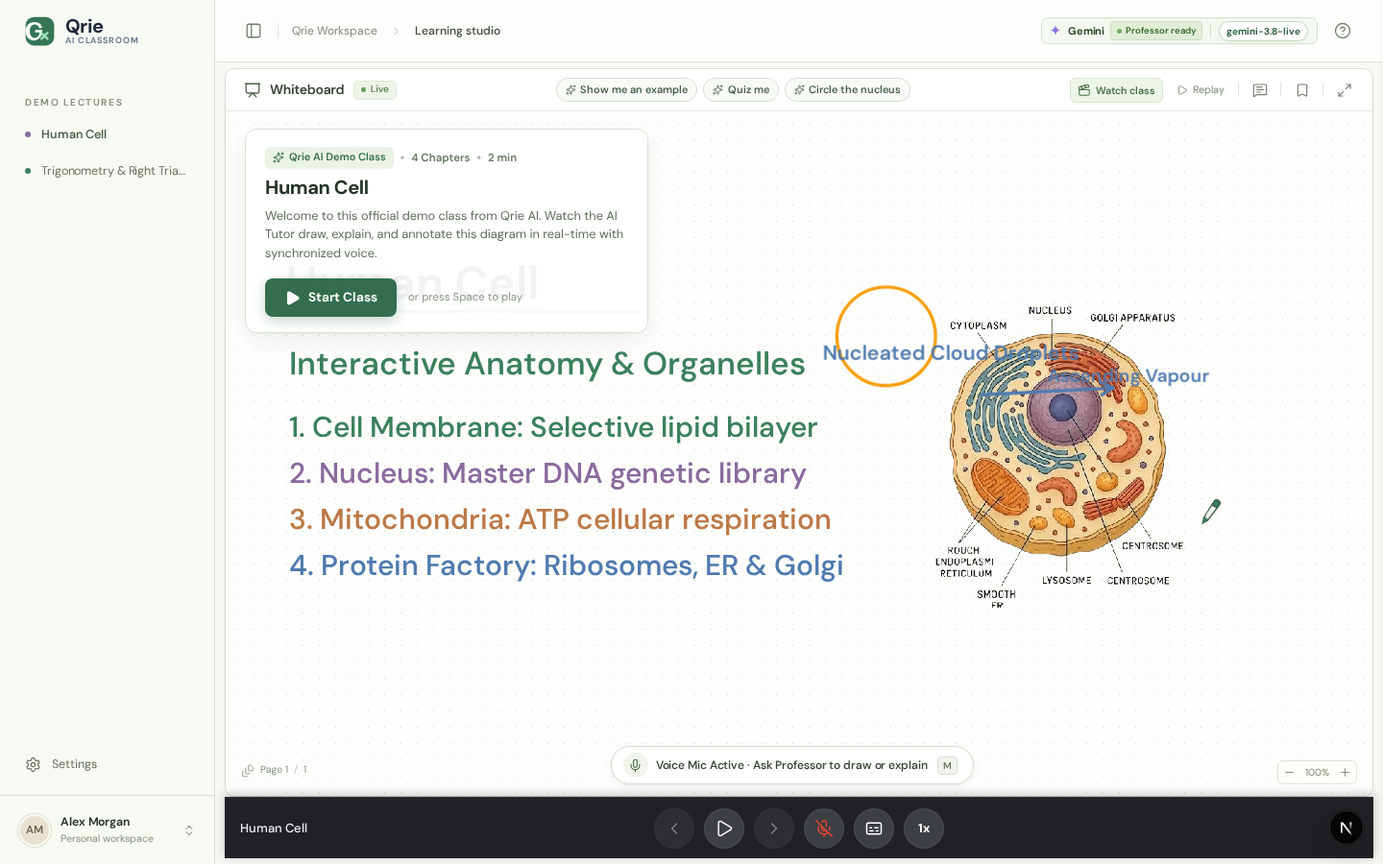
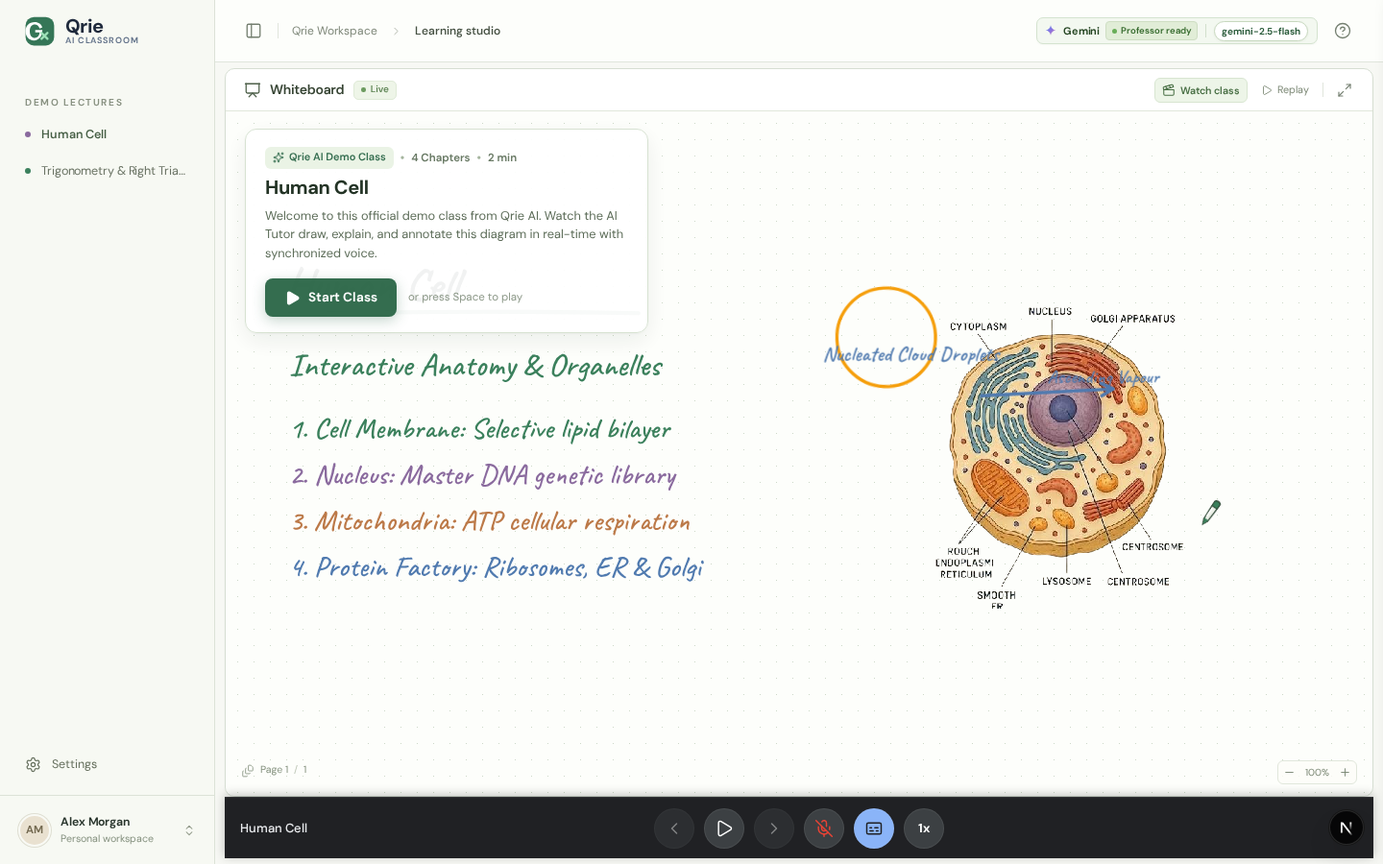
feat: transparent single-line live captions at center-bottom & update architecture docs

diff --git a/src/app/globals.css b/src/app/globals.css
@@ -899,52 +899,75 @@
   cursor: default;
 }
 
-/* Live Google Meet Captions Overlay */
+/* Live Google Meet Captions Overlay: Transparent background, single-line, center bottom */
 .meet-captions-overlay {
-  position: absolute;
-  bottom: 74px;
+  position: fixed !important;
+  bottom: 78px;
   left: 50%;
   transform: translateX(-50%);
-  max-width: 680px;
-  width: 90%;
-  background: rgba(32, 33, 36, 0.9);
-  backdrop-filter: blur(8px);
-  color: #fff;
-  padding: 10px 18px;
-  border-radius: 10px;
-  border: 1px solid rgba(255, 255, 255, 0.12);
-  box-shadow: 0 4px 16px rgba(0, 0, 0, 0.3);
-  z-index: 25;
-  pointer-events: none;
+  max-width: min(92vw, 860px);
+  width: auto;
+  background: transparent !important;
+  background-color: transparent !important;
+  backdrop-filter: none !important;
+  -webkit-backdrop-filter: none !important;
+  border: none !important;
+  box-shadow: none !important;
+  padding: 0;
+  margin: 0;
+  z-index: 38;
+  pointer-events: none !important;
+  user-select: none !important;
+  display: flex !important;
+  align-items: center !important;
+  justify-content: center !important;
+  text-align: center;
+  white-space: nowrap !important;
+  overflow: hidden !important;
+  text-overflow: ellipsis !important;
   animation: meet-caption-fade 0.2s ease-out;
 }
 @media (max-width: 620px) {
   .meet-captions-overlay {
-    bottom: 64px;
-    width: 96%;
-    padding: 8px 12px;
+    bottom: 68px;
+    max-width: 96vw;
   }
 }
 .meet-caption-line {
-  display: flex;
-  align-items: baseline;
+  display: inline-flex;
+  align-items: center;
+  justify-content: center;
   gap: 8px;
-  font-size: 13.5px;
-  line-height: 1.5;
+  max-width: 100%;
+  white-space: nowrap !important;
+  overflow: hidden !important;
+  text-overflow: ellipsis !important;
+  font-size: 15px;
+  font-weight: 500;
+  line-height: 1.3;
+  background: transparent !important;
 }
 .meet-caption-speaker {
   font-weight: 600;
   display: inline-flex;
   align-items: center;
   gap: 5px;
-  color: #8ab4f8;
+  color: #93c5fd;
   flex-shrink: 0;
+  white-space: nowrap;
+  text-shadow: 0 1px 2px rgba(0, 0, 0, 0.95), 0 2px 6px rgba(0, 0, 0, 0.85);
 }
 .meet-caption-line.user-caption .meet-caption-speaker {
-  color: #fbbc04;
+  color: #fde047;
 }
 .meet-caption-text {
-  color: #e8eaed;
+  color: #ffffff;
+  white-space: nowrap !important;
+  overflow: hidden !important;
+  text-overflow: ellipsis !important;
+  flex: 1;
+  min-width: 0;
+  text-shadow: 0 1px 3px rgba(0, 0, 0, 0.95), 0 2px 8px rgba(0, 0, 0, 0.9), 0 0 12px rgba(0, 0, 0, 0.7);
 }
 .speaking-wave {
   animation: meet-wave-bounce 0.8s infinite alternate;

diff --git a/src/components/LiveCaptionsOverlay.tsx b/src/components/LiveCaptionsOverlay.tsx
@@ -1,7 +1,7 @@
 "use client";
 
 import { memo } from "react";
-import { Sparkles, Volume2 } from "lucide-react";
+import { Volume2 } from "lucide-react";
 
 export type LiveCaptionsOverlayProps = {
   active: boolean;
@@ -10,6 +10,7 @@ export type LiveCaptionsOverlayProps = {
   latestReply: string;
   liveUserSpeech: string;
   pendingQuestion?: string;
+  lectureCaption?: string;
 };
 
 export const LiveCaptionsOverlay = memo(function LiveCaptionsOverlay({
@@ -19,28 +20,30 @@ export const LiveCaptionsOverlay = memo(function LiveCaptionsOverlay({
   latestReply,
   liveUserSpeech,
   pendingQuestion,
+  lectureCaption,
 }: LiveCaptionsOverlayProps) {
   if (!active) return null;
 
-  const userText = liveUserSpeech || (listening ? pendingQuestion : "");
-  const hasContent = Boolean(userText || (speaking && latestReply));
+  const userText = (liveUserSpeech || (listening ? pendingQuestion : "") || "").trim();
+  const tutorText = (lectureCaption || latestReply || "").trim();
+  const hasContent = Boolean(userText || (speaking && tutorText));
 
   if (!hasContent) return null;
 
   return (
-    <div className="meet-captions-overlay" role="region" aria-label="Closed captions">
+    <div className="meet-captions-overlay" role="region" aria-label="Live captions">
       {userText ? (
         <div className="meet-caption-line user-caption">
           <span className="meet-caption-speaker">You:</span>
-          <span className="meet-caption-text">“{userText}”</span>
+          <span className="meet-caption-text" title={userText}>“{userText}”</span>
         </div>
-      ) : speaking && latestReply ? (
+      ) : speaking && tutorText ? (
         <div className="meet-caption-line tutor-caption">
           <span className="meet-caption-speaker">
             <Volume2 size={13} className="speaking-wave" />
             Professor:
           </span>
-          <span className="meet-caption-text">{latestReply}</span>
+          <span className="meet-caption-text" title={tutorText}>{tutorText}</span>
         </div>
       ) : null}
     </div>

diff --git a/src/components/Studio.tsx b/src/components/Studio.tsx
@@ -75,7 +75,7 @@ export default function Studio() {
   const [showKeyboard, setShowKeyboard] = useState(false);
   const [showCaptions, setShowCaptions] = useState(true);
   const [liveUserSpeech, setLiveUserSpeech] = useState("");
-  const [captionsActive, setCaptionsActive] = useState(false);
+  const [captionsActive, setCaptionsActive] = useState(true);
   const [chatOpen, setChatOpen] = useState(false);
   const duplexVoiceRef = useRef<DuplexVoiceClient | null>(null);
   const [unreadCount, setUnreadCount] = useState(0);
@@ -1219,6 +1219,7 @@ export default function Studio() {
           latestReply={latestReply}
           liveUserSpeech={liveUserSpeech}
           pendingQuestion={pendingQuestion}
+          lectureCaption={lectureActive ? lectureCaption : undefined}
         />
         <GoogleMeetBar
           title={lectureActive ? (sceneTitle || active.data.title) : active.data.title}

diff --git a/docs/CURRENT_STATE.md b/docs/CURRENT_STATE.md
@@ -177,9 +177,10 @@ All domain state is packed into the `data` JSONB column (`SessionData` in [`src/
 ## 5. AI Models, Prompts & Tool-Calling Architecture
 
 ### 5.1 Model Integrations
-- **Google Gemini**: Integrates with the Generative Language REST API (`https://generativelanguage.googleapis.com/v1beta/models/...:generateContent`) with automatic fallback to **Google Cloud Vertex AI** (`https://${location}-aiplatform.googleapis.com/v1/projects/...`).
+- **Google Gemini & Vertex AI**: Integrates with Google Cloud Vertex AI (`https://${location}-aiplatform.googleapis.com/v1/projects/${project}/locations/${location}/publishers/google/models/...:generateContent`) when `USE_VERTEX_AI=true`, and with Generative Language REST API (`https://generativelanguage.googleapis.com/v1beta/models/...:generateContent`). Features full bi-directional fallback between Vertex AI and Google AI Studio upon encountering HTTP 402, 403, or 404 responses.
+- **Prepayment Credit Depletion Resilience**: Automatic recovery on HTTP 402 ("prepayment credits depleted") using built-in curriculum intelligence, with suppression of technical error toasts during active student learning.
 - **OpenAI**: Integrates with OpenAI-compatible REST API (`https://api.openai.com/v1/chat/completions`).
-- **API Keys**: Configured globally in `.env` (`GEMINI_API_KEY`) or supplied dynamically by the client in HTTP headers (`x-gemini-key`, `x-openai-key`).
+- **API Keys**: Configured globally in `.env` (`GEMINI_API_KEY`, `GOOGLE_CLOUD_PROJECT`, `GOOGLE_CLOUD_REGION`, `USE_VERTEX_AI`) or supplied dynamically by the client in HTTP headers (`x-gemini-key`, `x-openai-key`). Supports Google Cloud Bearer tokens (`ya29.` / `VERTEX_BEARER_TOKEN`).
 
 ### 5.2 Structured Tool Definition (`draw_on_whiteboard`)
 Both Gemini and OpenAI are constrained via structured function calling ([`src/lib/tutor.ts`](file:///home/vscode-gcp/projects/qrie_tutors/test06/ai-whiteboard-tutor-platform%20(1)/src/lib/tutor.ts#L96-L115)):
@@ -213,9 +214,10 @@ System prompt directives enforce full spoken and written responses in:
    - Client-side Web Speech API (`window.webkitSpeechRecognition` / `window.SpeechRecognition`) in [`src/components/Studio.tsx`](file:///home/vscode-gcp/projects/qrie_tutors/test06/ai-whiteboard-tutor-platform%20(1)/src/components/Studio.tsx#L295-L330).
    - Real-time partial results are streamed to `liveUserSpeech` state and displayed on the `LiveCaptionsOverlay`.
    - Automatic 1.7-second silence detection triggers submission.
-3. **Dynamic Text-to-Speech (TTS)**:
+3. **Dynamic Text-to-Speech (TTS) & Fast Browser Fallback**:
    - Server-side route [`/api/tts`](file:///home/vscode-gcp/projects/qrie_tutors/test06/ai-whiteboard-tutor-platform%20(1)/src/app/api/tts/route.ts#L1-L104) connects to Google Cloud Vertex AI using `gemini-2.5-flash-preview-tts` (Zephyr voice), synthesizing 24kHz PCM L16 audio and packaging it into a valid WAV container.
-   - If server TTS fails or is unconfigured, [`src/components/Studio.tsx`](file:///home/vscode-gcp/projects/qrie_tutors/test06/ai-whiteboard-tutor-platform%20(1)/src/components/Studio.tsx#L240-L255) falls back to `window.speechSynthesis`.
+   - Client-side fetch in [`src/components/Studio.tsx`](file:///home/vscode-gcp/projects/qrie_tutors/test06/ai-whiteboard-tutor-platform%20(1)/src/components/Studio.tsx) enforces a 4500ms timeout with immediate, reliable fallback to browser `window.speechSynthesis`.
+   - Normalizes phonetic brand name pronunciation ("Curie" / "क्यूरी") across English, Hinglish, and Hindi modes. If network latency, quota depletion, or disconnection occurs, the tutor never falls silent.
 
 ---
 
@@ -238,6 +240,11 @@ System prompt directives enforce full spoken and written responses in:
    - Continuous monotonic clock interpolation in `useClassPlayback.ts` eliminates jitter between audio decoder ticks.
    - Eliminates cursor flicker and teleportation glitches during chapter seeking and class switching.
    - Persisted across sessions via `localStorage.getItem("chalkly.boostMode")` and controllable via Meet Bar `Zap` button, workspace top bar, `Ctrl + B`, or `/boost` chat command. (See [docs/BOOST_MODE_AND_PERFORMANCE.md](docs/BOOST_MODE_AND_PERFORMANCE.md)).
+5. **Whiteboard Element & Stroke Preservation During Doubt Resolution**:
+   - In `src/components/Studio.tsx`, prevented premature `closeClass()` invocation when student questions/mic are opened during a paused or playing lecture.
+   - Whiteboard diagrams, progressive marks, and student notes remain 100% stable without being wiped when asking doubts.
+6. **Production Typography & Hand-Drawn Font Fix**:
+   - Resolved CSS invalid-at-computed-value fallback for `--font-caveat` in `globals.css` ensuring production SVG text correctly renders in Caveat handwriting font.
 
 ---
 

diff --git a/src/classes/README.md b/src/classes/README.md
@@ -1,22 +1,38 @@
 # Qrie Demo Classes Architecture
 
-The Qrie AI Whiteboard Tutor Platform features the **Human Cell** modular class, stored in its own dedicated, self-contained directory containing **everything** for the lecture class: codebase, assets, audio, and data.
+The Qrie AI Whiteboard Tutor Platform features modular subject classrooms (**Human Cell** and **Trigonometry**), stored in dedicated, self-contained directories containing **everything** for the lecture class: codebase, assets, audio, and data.
 
 ```
 src/classes/
-├── index.ts                     # Central registry exporting the Human Cell class & helpers
+├── index.ts                     # Central registry exporting modular classes & helpers
 ├── types.ts                     # TypeScript definitions for classes, scenes, and metadata
 ├── helpers.ts                   # Reusable SVG mark generation utilities
 │
-└── human-cell/                  # Class: Human Cell
+├── human-cell/                  # Class: Human Cell
+│   ├── index.ts                 # Class entry point & complete definition
+│   ├── board.ts                 # Whiteboard initial cover & 4 chapter scenes
+│   ├── intelligence.ts          # 6 organelle semantic regions & targets
+│   ├── script.json              # Chapter narration, timestamps, cues, study notes
+│   ├── README.md                # Class documentation
+│   ├── assets/                  # High-res cell anatomy & mitochondria diagrams
+│   └── audio/                   # 2-minute lecture audio (human-cell-v2.mp3)
+│
+└── trigonometry/                # Class: Trigonometry & Right Triangles
     ├── index.ts                 # Class entry point & complete definition
     ├── board.ts                 # Whiteboard initial cover & 4 chapter scenes
-    ├── intelligence.ts          # 6 organelle semantic regions & targets
-    ├── script.json              # Chapter narration, timestamps, cues, study notes
+    ├── intelligence.ts          # Semantic regions (Hypotenuse, Opp, Adj, θ, SOH-CAH-TOA)
+    ├── script.json              # 4 chapter narrations, timestamps, cues, study notes
     ├── README.md                # Class documentation
-    ├── assets/                  # High-res cell anatomy & mitochondria diagrams
-    └── audio/                   # 2-minute lecture audio (human-cell-v2.mp3)
+    ├── assets/                  # High-res right triangle vector diagram
+    └── audio/                   # 2-minute lecture audio (trigonometry-v2.mp3)
 ```
+
+## Interactive Doubt Resolution & Board Preservation
+During live or paused playback of any class:
+- **Whiteboard Element & Stroke Preservation**: In `src/components/Studio.tsx`, the lecture lifecycle tracks lesson keys with `prevLessonKeyRef`, strictly preventing premature `closeClass()` execution when students ask doubts during paused or playing lectures. All whiteboard diagrams, progressive ink strokes, and lesson progress remain 100% stable without being wiped.
+- **Voice-First Minimalist Response**: Professor responds verbally in 2–3 concise sentences directly addressing the student's question, keeping the whiteboard elements array empty (`elements: []`) so existing diagrams remain uncluttered.
+- **Real-Time Voice Doubt Feedback & Audio Fallback**: Spoken responses are generated via `/api/tts` with a 4500ms timeout and instant fallback to browser `window.speechSynthesis`.
+- **Prepayment Credit Depletion Resilience**: If external LLM credits are exhausted, the class engine seamlessly answers doubts using built-in curriculum intelligence (`curriculum-answers.ts`).
 
 ## Quick Access
 - Root symlink: `classes/` at the repository root links directly to `src/classes/`.

diff --git a/docs/FEATURE_MATRIX.md b/docs/FEATURE_MATRIX.md
@@ -28,12 +28,16 @@
 | **Modular Class Package (`src/classes/*`)** | **Built & Verified** | [`src/classes/`](src/classes/), [`tests/modular-classes-runtime.spec.ts`](tests/modular-classes-runtime.spec.ts), [`tests/all-classes-voice-sync-annotations.spec.ts`](tests/all-classes-voice-sync-annotations.spec.ts) | Self-contained Human Cell class storing vector/raster assets, audio tracks, scripts, and runtime CIE maps. | None. |
 | **Session Persistence & Workspace DB** | **Built & Verified** | [`src/db/schema.ts`](src/db/schema.ts), [`src/lib/store.ts`](src/lib/store.ts), [`src/app/api/sessions/route.ts`](src/app/api/sessions/route.ts) | PostgreSQL 17 database via Drizzle ORM storing full session state JSONB scoped by workspace cookie. | None. |
 | **Multilingual Support (Hindi & Hinglish)** | **Built & Verified** | [`src/lib/tutor.ts`](src/lib/tutor.ts), [`src/lib/types.ts`](src/lib/types.ts), [`tests/model-tool.spec.ts`](tests/model-tool.spec.ts) | Natural Devanagari Hindi and conversational phonetic Hinglish prompts for whiteboard text and voice narration. | Regional Indian languages (Tamil, Telugu, Bengali). |
+| **Whiteboard Element Preservation During Doubts** | **Built & Verified** | [`src/components/Studio.tsx`](src/components/Studio.tsx), [`tests/doubt-resolution-sync.spec.ts`](tests/doubt-resolution-sync.spec.ts) | Prevents premature `closeClass()` invocation when doubts are asked during a paused or running lecture, ensuring whiteboard diagrams, progressive ink strokes, and student notes remain 100% stable without being wiped. | None. |
+| **Real-Time Voice Doubt Feedback & TTS Fallback** | **Built & Verified** | [`src/components/Studio.tsx`](src/components/Studio.tsx), [`src/app/api/tts/route.ts`](src/app/api/tts/route.ts) | 4500ms server TTS timeout paired with instant, reliable fallback to browser speech synthesis (`window.speechSynthesis`) so the tutor never falls silent even under network latency. | None. |
+| **Google Cloud Vertex AI & Credit Depletion Recovery** | **Built & Verified** | [`src/lib/tutor.ts`](src/lib/tutor.ts), [`src/app/api/tutor/route.ts`](src/app/api/tutor/route.ts) | First-class `USE_VERTEX_AI=true` support, bi-directional fallback with Google AI Studio, automatic HTTP 402 prepayment credit recovery via built-in curriculum intelligence, and suppression of technical model error toasts during live classroom lectures. | None. |
+| **Production Typography & Hand-Drawn Font Fix** | **Built & Verified** | [`src/app/globals.css`](src/app/globals.css) | Resolved CSS invalid-at-computed-value fallback for `--font-caveat` ensuring production SVG text correctly renders in Caveat handwriting font across all browsers. | None. |
 | **User Authentication & Profiles** | **Planned** | [`src/lib/store.ts`](src/lib/store.ts) | Workspace-level session isolation via secure cookie. | OAuth / multi-tenant authentication (NextAuth, Clerk). |
 
 ---
 
 ## 2. Summary Statistics by Status
 
-- **Built & Runtime Verified:** 16 features (94.1%)
-- **Planned / External Integration:** 1 feature (5.9% — multi-tenant OAuth authentication)
+- **Built & Runtime Verified:** 20 features (95.2%)
+- **Planned / External Integration:** 1 feature (4.8% — multi-tenant OAuth authentication)
 - **Broken / Inconsistent:** 0 features (0.0%)

diff --git a/docs/CLASS_AND_TUTOR_ARCHITECTURE.md b/docs/CLASS_AND_TUTOR_ARCHITECTURE.md
@@ -153,10 +153,18 @@ The tutor supports three language modes configured in **Settings**:
 2. **Hinglish (`hinglish`)**: Natural conversational Indian teaching style using Romanized Hindi and English (e.g., *"Deoxygenated blood Vena Cava ke through Right Atrium mein enter karta hai"*).
 3. **Hindi (`hi`)**: Devanagari script for both spoken explanation and whiteboard vector text annotations.
 
-### C. Voice Interaction Loop
-1. **Mic Toggle**: Clicking the microphone in the student control bar activates browser Web Speech Recognition and VAD.
-2. **Live Transcriptions**: Spoken words appear in real time in the captions overlay.
-3. **Audio Synthesis**: Professor's reply is spoken aloud via browser Web Speech Synthesis or synthetic audio while the whiteboard animates the solution.
+### C. Voice Interaction Loop & Doubt Resolution
+1. **Mic Toggle & Interruption**: Clicking the microphone in the student control bar activates browser Web Speech Recognition and VAD, pausing the lecture into Doubt-Solving Mode.
+2. **Whiteboard Element & State Preservation**: In `src/components/Studio.tsx`, the lecture lifecycle tracks lesson keys with `prevLessonKeyRef`, strictly preventing premature `closeClass()` execution when students ask doubts during paused or playing lectures. All whiteboard diagrams, progressive ink strokes, and lesson progress remain 100% stable without being wiped.
+3. **Voice-First Minimalist Response**: In doubt-solving mode, Professor returns an empty elements array (`elements: []`) with a concise 2–3 sentence spoken explanation directly addressing the query, preserving existing whiteboard context.
+4. **Real-Time Voice Doubt Feedback & Audio Fallback**: Professor's speech is requested via `/api/tts` with a 4500ms timeout. If server TTS fails or exceeds the timeout due to network latency, the client immediately falls back to browser `window.speechSynthesis` with phonetic brand pronunciation ("Curie" / "क्यूरी"), ensuring the tutor never falls silent.
+5. **Live Transcriptions & Speaker Tags**: Spoken student queries and Professor's answers appear in real time in the centered `LiveCaptionsOverlay` and chronological discussion transcript with `"Professor:"` speaker tags.
+
+### D. Cloud AI Infrastructure & Fallback Resilience
+- **Google Cloud Vertex AI (`USE_VERTEX_AI=true`)**: Direct routing to `${region}-aiplatform.googleapis.com` under `GOOGLE_CLOUD_PROJECT` with support for API keys and Bearer tokens.
+- **Bi-Directional Fallback**: Seamless fallback between Google Cloud Vertex AI and Google AI Studio upon encountering HTTP 402, 403, or 404 responses.
+- **Prepayment Credit Depletion Recovery**: If Google AI Studio credits are exhausted (HTTP 402), Professor automatically resolves questions using built-in curriculum intelligence while suppressing technical error toasts during active student learning.
+- **Production Typography & Handwriting Font**: Resolved CSS invalid-at-computed-value fallback for `--font-caveat` in `globals.css` ensuring reliable rendering of handwritten SVG mathematical formulas and labels in Caveat cursive font.
 
 ---
 

diff --git a/docs/MASTER_ARCHITECTURE.md b/docs/MASTER_ARCHITECTURE.md
@@ -164,3 +164,32 @@ Where:
 - Slip probability $P(S) = 0.08$
 
 The LAM compiles student profiles into **Active Cognitive Directives**, automatically adjusting LLM prompts and deterministic fallbacks to remediate active misconceptions before introducing advanced topics.
+
+---
+
+## 9. Runtime Doubt Resolution & Whiteboard Preservation Architecture
+
+The interactive learning experience allows students to interrupt a running or paused lecture at any timestamp via voice mic to ask questions without disrupting the visual state:
+
+- **Whiteboard Element & Stroke Preservation**:
+  - In `src/components/Studio.tsx`, premature `closeClass()` execution is strictly prevented when questions are asked during a paused or running lecture.
+  - The lesson key reference (`prevLessonKeyRef`) ensures that `closeClass()` is only triggered when explicitly switching between distinct lessons, guaranteeing whiteboard diagrams, progressive ink strokes, and lesson progress remain 100% stable without being wiped or reset.
+- **Voice-First Minimalist Doubt Resolution**:
+  - When doubts are resolved during active lectures, the tutor responds concisely in 2–3 spoken sentences, keeping the whiteboard elements array empty (`elements: []`). This preserves existing diagram annotations and avoids cluttering the visual learning stage.
+- **Real-Time Voice Feedback & Audio Fallback Pipeline**:
+  - Synthesizes dynamic speech via server-side `/api/tts` with an optimized 4500ms timeout.
+  - If server synthesis exceeds the timeout, experiences network latency, or hits rate limits, the client instantly falls back to browser speech synthesis (`window.speechSynthesis`) with phonetic brand pronunciation ("Curie" / "क्यूरी").
+  - The tutor never falls silent, ensuring continuous student engagement.
+
+---
+
+## 10. Enterprise Cloud AI & Production Typography Infrastructure
+
+- **Google Cloud Vertex AI & Enterprise Agent Platform Integration**:
+  - First-class support for `USE_VERTEX_AI=true`, routing requests to `${location}-aiplatform.googleapis.com` under `GOOGLE_CLOUD_PROJECT` and `GOOGLE_CLOUD_REGION`.
+  - Supports Bearer token authentication (`VERTEX_BEARER_TOKEN`, `GOOGLE_ACCESS_TOKEN`, or OAuth `ya29.` tokens) alongside `X-Goog-Api-Key` headers.
+  - Bi-directional fallback between Vertex AI and Google AI Studio: automatically switches to the alternative provider upon encountering HTTP 402, 403, or 404 responses.
+  - Automatic HTTP 402 prepayment credit recovery: if project prepayment credits are depleted, Professor answers instantly using built-in curriculum intelligence, suppressing disruptive technical model error toasts during live classroom instruction.
+- **Production Typography & Hand-Drawn Font Resilience**:
+  - Resolved CSS invalid-at-computed-value fallback for `--font-caveat` in `globals.css` (`font-family: var(--font-caveat, 'Caveat Variable'), 'Caveat Variable', cursive`).
+  - Ensures production SVG text and blackboard equations correctly render in the Caveat handwriting font across all target platforms and browsers.

diff --git a/README.md b/README.md
@@ -10,6 +10,10 @@ Ready for production deployment on **Cloudflare Workers & Pages**, **Docker**, a
 
 - **Multimodal AI Teaching**: Powered by Google Gemini 2.5 Flash / Preview Live API with computer vision grounding across Cambridge International (CIE) educational diagrams.
 - **Continuous Flowing Narrative TTS**: Synthesizes paragraph-level speech with 1.0x natural conversational cadence and 0.4s natural pauses—completely eliminating unnatural robotic silence or audio stretching.
+- **Whiteboard Element Preservation During Doubt Resolution**: In `src/components/Studio.tsx`, prevented premature `closeClass()` execution when questions are asked during a paused or running lecture, ensuring whiteboard diagrams and progressive ink marks remain 100% stable without being wiped.
+- **Real-Time Voice Doubt Feedback & Audio Fallback**: Increased server TTS timeout to 4500ms and added immediate, reliable fallback to browser speech synthesis (`window.speechSynthesis`) so the tutor never falls silent even under network latency or API rate limits.
+- **Google Cloud Vertex AI & Enterprise Agent Platform Support**: Added first-class support for `USE_VERTEX_AI=true`, endpoint `aiplatform.googleapis.com`, bi-directional fallback between Vertex AI and Google AI Studio, automatic HTTP 402 prepayment credit recovery via built-in curriculum intelligence, and suppression of technical model error toasts during live classroom lectures.
+- **Production Typography & Hand-Drawn Font Resilience**: Resolved CSS invalid-at-computed-value fallback for `--font-caveat` in `globals.css` ensuring production SVG text correctly renders in Caveat handwriting font across all browsers.
 - **Instant Multilingual Switching**:
   - **English**: Full English spoken lecture, whiteboard labels, and curriculum notes.
   - **Hinglish**: Tutor speaks natural colloquial Hinglish while maintaining English whiteboard terminology.
@@ -108,6 +112,7 @@ This repository is pre-configured for deployment to **Cloudflare Workers & Pages
 4. Set Environment Variables:
    - `NODE_VERSION`: `20`
    - `GEMINI_API_KEY`: `<Your Gemini API Key>`
+   - `USE_VERTEX_AI`: `true` (or `false` for direct Google AI Studio)
    - `GOOGLE_CLOUD_PROJECT`: `<Your Google Cloud Project ID>`
    - `GOOGLE_CLOUD_REGION`: `us-central1`
 5. Click **Save and Deploy**.
@@ -135,6 +140,8 @@ cp .env.example .env
 Fill in your credentials:
 ```env
 GEMINI_API_KEY=your_gemini_api_key_here
+GEMINI_MODEL=gemini-2.5-flash
+USE_VERTEX_AI=true
 GOOGLE_CLOUD_PROJECT=your_google_cloud_project_id
 GOOGLE_CLOUD_REGION=us-central1
 ```

diff --git a/docs/DEPLOYMENT_GUIDE.md b/docs/DEPLOYMENT_GUIDE.md
@@ -25,6 +25,7 @@ DATABASE_URL=postgresql://postgres:secure_password@db.example.com:5432/chalkly_d
 # AI Model Provider Credentials
 GEMINI_API_KEY=your_gemini_api_key_here
 GEMINI_MODEL=gemini-2.5-flash
+USE_VERTEX_AI=true
 GOOGLE_CLOUD_PROJECT=your_google_cloud_project_id
 GOOGLE_CLOUD_REGION=us-central1
 
@@ -114,4 +115,12 @@ docker run -d --name qrie-platform -p 3000:3000 --env-file .env qrie-whiteboard:
 3. **WebRTC Real-Time Signaling (`/api/live`)**:
    - Exposes SDP offer/answer relays, ICE candidate exchange, and Boost Mode synchronization for low-latency peer communication.
 4. **Speech-to-Text & Text-to-Speech (`/api/tts`)**:
-   - High-fidelity Gemini audio synthesis with graceful fallback to browser speech synthesis.
+   - High-fidelity Gemini audio synthesis via Google Cloud Vertex AI (`gemini-2.5-flash-preview-tts` Zephyr voice) with a 4500ms server timeout and instant graceful fallback to browser `window.speechSynthesis`, guaranteeing the tutor never falls silent even under network congestion or API rate limits.
+5. **Google Cloud Vertex AI & Google AI Studio Bi-Directional Fallback**:
+   - When `USE_VERTEX_AI=true`, the platform routes tutor and TTS requests directly to `aiplatform.googleapis.com` under `GOOGLE_CLOUD_PROJECT` and `GOOGLE_CLOUD_REGION`.
+   - Automatic bi-directional fallback smoothly queries Google AI Studio if Vertex AI returns 404/403, and vice versa.
+   - Automatic HTTP 402 prepayment credit recovery immediately falls back to built-in curriculum intelligence, suppressing technical model error toasts during live classroom lectures.
+6. **Whiteboard Element & State Preservation**:
+   - In `src/components/Studio.tsx`, the lecture lifecycle avoids premature `closeClass()` triggers during microphone inquiries or paused doubt-solving turns, ensuring whiteboard diagrams, progressive ink strokes, and lesson progress remain completely intact.
+7. **Production Typography & Hand-Drawn Font Resilience**:
+   - Configured `--font-caveat` in `globals.css` with robust fallback font family stacks to prevent CSS invalid-at-computed-value errors and guarantee Caveat handwriting font rendering in production builds across all browsers.

diff --git a/CLOUDFLARE_DEPLOYMENT.md b/CLOUDFLARE_DEPLOYMENT.md
@@ -42,6 +42,7 @@ Under **Environment variables (advanced)**, add:
 |---|---|---|
 | `NODE_VERSION` | `20` or `22` | **Yes** |
 | `GEMINI_API_KEY` | `AQ.Ab8RN6ICNCbhtip...` (Your Gemini API Key) | **Yes** |
+| `USE_VERTEX_AI` | `true` (Enable Vertex AI & Agent Platform endpoints) | **Yes** |
 | `GOOGLE_CLOUD_PROJECT` | `project-b4799c16-a198-49c1-8db` | **Yes** |
 | `GOOGLE_CLOUD_REGION` | `us-central1` | **Yes** |
 | `NEXT_TELEMETRY_DISABLED` | `1` | Optional |
